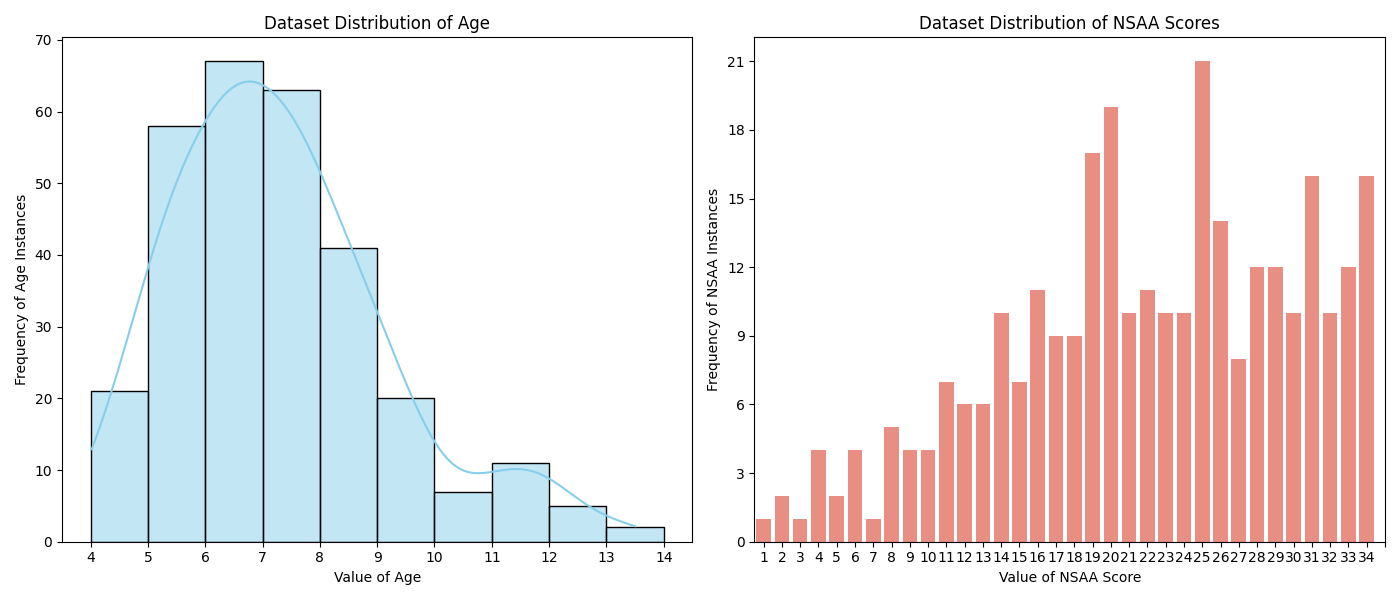
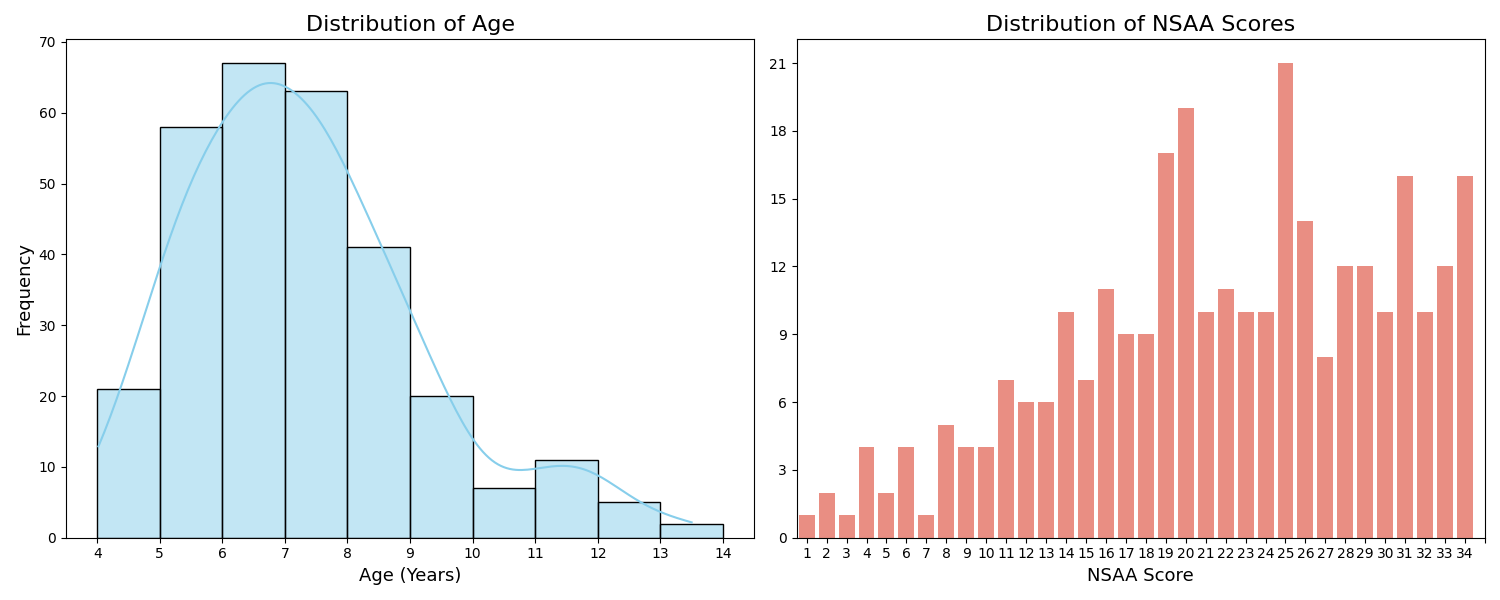
Make some adjustments to plot_distributions.py, missingness_plotter.py
- Make adjustments on plot_distributions.py
- Decide on final version of missingness_plotter.py

diff --git a/src/plot_distributions.py b/src/plot_distributions.py
@@ -123,27 +123,27 @@ def plot_distribution(df, column, name):
         if unique_values < 20:
             # If the number of unique numeric values is less than 20, use a count plot
             sns.countplot(x=column_data, palette='viridis')
-            plt.title(f'Count Plot of {name}')
-            plt.xlabel(name)
-            plt.ylabel('Frequency')
+            plt.title(f'Count Plot of {name}', fontsize=16)
+            plt.xlabel(name, fontsize=13)
+            plt.ylabel('Frequency', fontsize=13)
         else:
             # Use a histogram and boxplot for numeric columns with many unique values
-            fig, axs = plt.subplots(1, 2, figsize=(14, 6))
+            fig, axs = plt.subplots(1, 2, figsize=(15, 6))
             sns.histplot(column_data, kde=True, ax=axs[0], color='skyblue')
-            axs[0].set_title(f'Histogram of {name}')
+            axs[0].set_title(f'Histogram of {name}', fontsize=13)
             axs[0].set_xlabel(name)
-            axs[0].set_ylabel('Frequency')
+            axs[0].set_ylabel('Frequency', fontsize=13)
 
             sns.boxplot(x=column_data, ax=axs[1], color='salmon')
-            axs[1].set_title(f'Boxplot of {column}')
+            axs[1].set_title(f'Boxplot of {column}', fontsize=16)
             axs[1].set_xlabel(column)
             plt.tight_layout()
     else:
         # For categorical columns, use a count plot
         sns.countplot(x=column_data, palette='viridis')
-        plt.title(f'Count Plot of {column}')
+        plt.title(f'Count Plot of {column}', fontsize=16)
         plt.xlabel(column)
-        plt.ylabel('Frequency')
+        plt.ylabel('Frequency', fontsize=13)
 
     # Show the plot
     plt.show()
@@ -170,21 +170,21 @@ def hist_bar_plot(df, file, hist_col, hist_name, bar_col, bar_name):
     plt.figure(figsize=(10, 6))
 
     # Use a histogram and boxplot for numeric columns with many unique values
-    fig, axs = plt.subplots(1, 2, figsize=(14, 6))
+    fig, axs = plt.subplots(1, 2, figsize=(15, 6))
 
     # Histogram for 'Age'
     sns.histplot(hist_data, kde=True, bins=np.arange(int(hist_data.min()), int(hist_data.max()+2)), ax=axs[0], color='skyblue')
-    axs[0].set_title(f'Dataset Distribution of {hist_name}')
-    axs[0].set_xlabel(f'Value of {hist_name}')
-    axs[0].set_ylabel(f'Frequency of {hist_name} Instances')
+    axs[0].set_title(f'Distribution of {hist_name}', fontsize=16)
+    axs[0].set_xlabel(f'Age (Years)', fontsize=13)
+    axs[0].set_ylabel(f'Frequency', fontsize=13)
     axs[0].set_xticks(range(int(hist_data.min()), int(hist_data.max()) + 2))
 
     # Bar plot for 'NSAA'
     bar_freq = bar_data.value_counts().sort_index()
     sns.barplot(x=bar_freq.index, y=bar_freq.values, ax=axs[1], color='salmon')
-    axs[1].set_title(f'Dataset Distribution of {bar_name} Scores')
-    axs[1].set_xlabel(f'Value of {bar_name} Score')
-    axs[1].set_ylabel(f'Frequency of {bar_name} Instances')
+    axs[1].set_title(f'Distribution of {bar_name} Scores', fontsize=16)
+    axs[1].set_xlabel(f'NSAA Score', fontsize=13)
+    axs[1].set_ylabel('')
     axs[1].set_xticks(range(0, 35))
     axs[1].set_yticks(range(0, bar_freq.max() + 2, 2))  # Ensure y-axis has even integer values
     axs[1].yaxis.set_major_locator(MaxNLocator(integer=True))  # Ensure y-axis has integer values
@@ -226,18 +226,21 @@ def age_split_plot(df, file, col1, name1, col2, name2, cutoff):
     plt.figure(figsize=(10, 6))
 
     # Use a histogram and boxplot for numeric columns with many unique values
-    fig, axs = plt.subplots(1, 2, figsize=(14, 6))
+    fig, axs = plt.subplots(1, 2, figsize=(15, 6))
 
     for (i, list) in enumerate([less_than_cutoff, greater_equal_to_cutoff]):
         # Histogram for 'Age'
         sns.histplot(list, kde=True, bins=np.arange(int(min(list)), int(max(list)+2)), ax=axs[i], color='skyblue')
-        axs[i].set_xlabel(f'Value of {name1}')
-        axs[i].set_ylabel(f'Frequency of {name1} Instances')
-        axs[i].set_ylim([0,65]) # Achive same scale for both sub plots
+        axs[i].set_xlabel(f'Age (Years)', fontsize=13)
+        if i == 0:
+            axs[i].set_ylabel(f'Frequency', fontsize=13)
+        else:
+            axs[i].set_ylabel('')
+        axs[i].set_ylim([0,65])  # Achive same scale for both subplots
         axs[i].set_xticks(range(int(min(list)), int(max(list))+2))
 
-    axs[0].set_title(f'Dataset Distribution of Class Under Cut-off for {name2}')
-    axs[1].set_title(f'Dataset Distribution of Class Including and Above Cut-off for {name2}')
+    axs[0].set_title(f'First NSAA Category Age Distribution (NSAA $<$ 17)', fontsize=16)
+    axs[1].set_title(f'Second NSAA Category Age Distribution (NSAA $\\geq$ 17)', fontsize=16)
 
     # Show and save the plot
     plt.tight_layout()
@@ -246,7 +249,7 @@ def age_split_plot(df, file, col1, name1, col2, name2, cutoff):
 
 # %% Generate plots
 cleaned_dataset = pd.read_csv(CLEANED_DATASET_PATH)
-#hist_bar_plot(cleaned_dataset, CV_RESULTS_DIR/'age_nsaa_dist.png','Age', 'Age', 'FT5', 'NSAA')
+hist_bar_plot(cleaned_dataset, CV_RESULTS_DIR/'age_nsaa_dist.png','Age', 'Age', 'FT5', 'NSAA')
 age_split_plot(cleaned_dataset, CV_RESULTS_DIR/'age_split_nsaa.png', 'Age', 'Age', 'FT5', 'NSAA', 17)
 
 # Load the cross-validation results

diff --git a/src/missingness_plotter.py b/src/missingness_plotter.py
@@ -48,7 +48,7 @@ summary = stats_importance.sort_values(by=["Feature Importance", "Feature Rank"]
 
 # %% Plotting missingness
 
-plot_bar_missing = False
+plot_bar_missing = True
 plot_box_stats_old = False
 plot_violin_stats = False
 plot_violin_stats_overview = False
@@ -63,7 +63,7 @@ if plot_bar_missing:
     bar_width = 0.7  # Set a bar width
     x = np.arange(len(summary))  # X axis
     bar_color = plt.cm.Paired(0)  # Use colorblind-friendly palette
-    ax1.set_xlabel('Feature (Name)', fontsize=13)
+    ax1.set_xlabel('Feature (Antibody or Age)', fontsize=13)
     ax1.set_ylabel('Missingness (Frequency)', color='k', fontsize=13)
     bars = ax1.bar(x, summary['Num_Missing'], color=bar_color, width=bar_width, label='Missingness Count')
 
@@ -286,10 +286,11 @@ box_data = summary
 
 if plot_violin_stats_overview_with_age:
     subset = box_data
-    fig, ax = plt.subplots(figsize=(15, 5), sharey=True, dpi=300)
+    fig, ax = plt.subplots(figsize=(15, 8), sharey=True, dpi=300)
     width = 1.75  # Width of the box and mean line
-    show_only_outside_percentiles = True
-    num_outliers_to_show = np.inf  # 4  # can be set to np.inf to show all outliers only if show_only_outside_percentiles is True
+    plot_outliers = False
+    show_only_outside_percentiles = False
+    num_outliers_to_show = 1  # np.inf  # can be set to np.inf to show all outliers only if show_only_outside_percentiles is True
     first_percentile = 100 - 95.4  # 25
     last_percentile = 95.4  # 75
 
@@ -322,7 +323,7 @@ if plot_violin_stats_overview_with_age:
     global_max = X[feature_names].max().max()
 
     # # Add a small margin
-    margin = 0.5
+    margin = 0.1
     y_min = global_min - margin
     y_max = global_max + margin
 
@@ -343,16 +344,17 @@ if plot_violin_stats_overview_with_age:
             l.set_alpha(0.8)
 
     # Add outliers
-    for i, (points, plot_index) in enumerate(zip(outliers, outlier_indexes)):
-        # Select only the two first and last outliers only if they exist
-        if len(points) > 2*num_outliers_to_show:
-            points = list(points)
-            points = points[:num_outliers_to_show] + points[-num_outliers_to_show:]
-        ax.scatter(x=(len(points)*[i]), y=points, color='k', s=2, alpha=0.5, zorder=3)
+    if plot_outliers:
+        for i, (points, plot_index) in enumerate(zip(outliers, outlier_indexes)):
+            # Select only the two first and last outliers only if they exist
+            if len(points) > 2*num_outliers_to_show:
+                points = list(points)
+                points = points[:num_outliers_to_show] + points[-num_outliers_to_show:]
+            ax.scatter(x=(len(points)*[i]), y=points, color='k', s=2, alpha=0.5, zorder=3)
 
 
     ax.set_ylabel('$\\log_2$-Normalized Intensity', fontsize=13)
-    ax.set_xlabel('Feature (HPA ID)', fontsize=13)
+    ax.set_xlabel('Feature (Antibody or Age)', fontsize=13)
     ax.tick_params(axis='y')
 
     # Show y-axis grid lines
